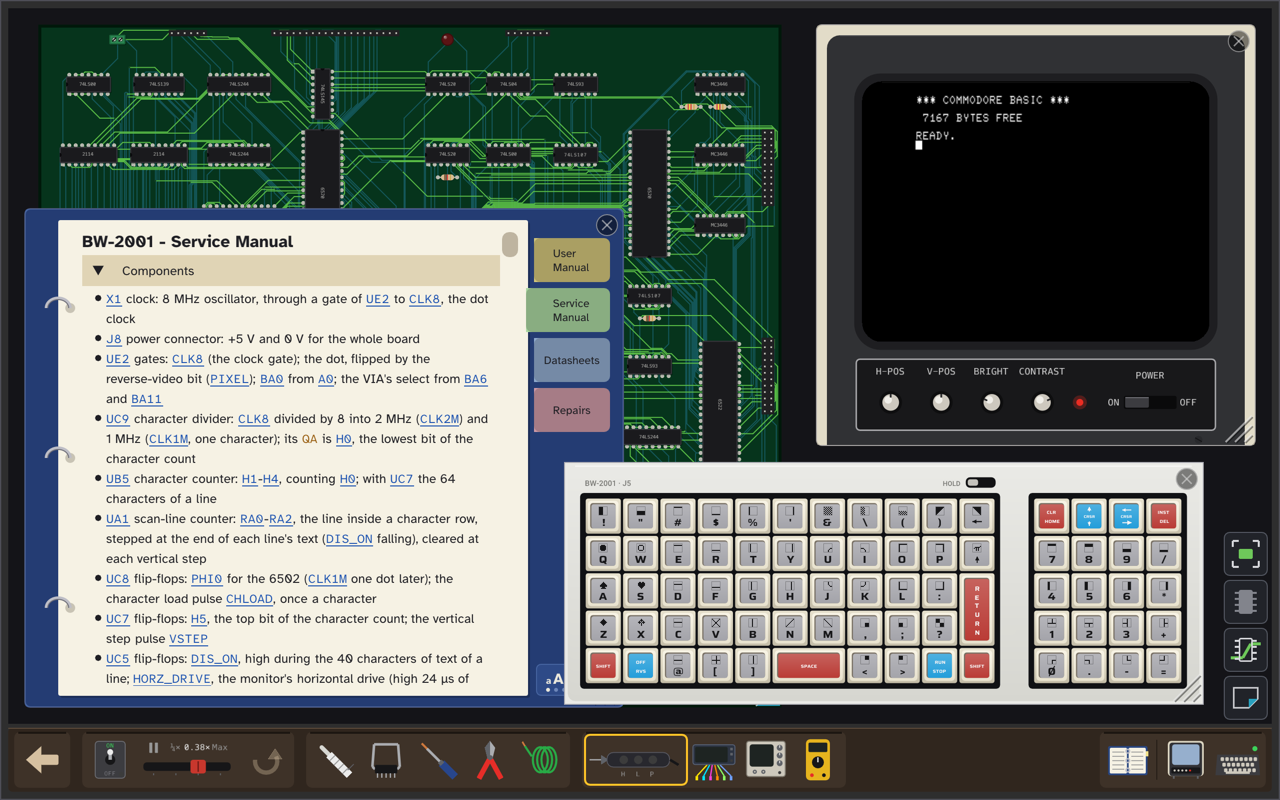
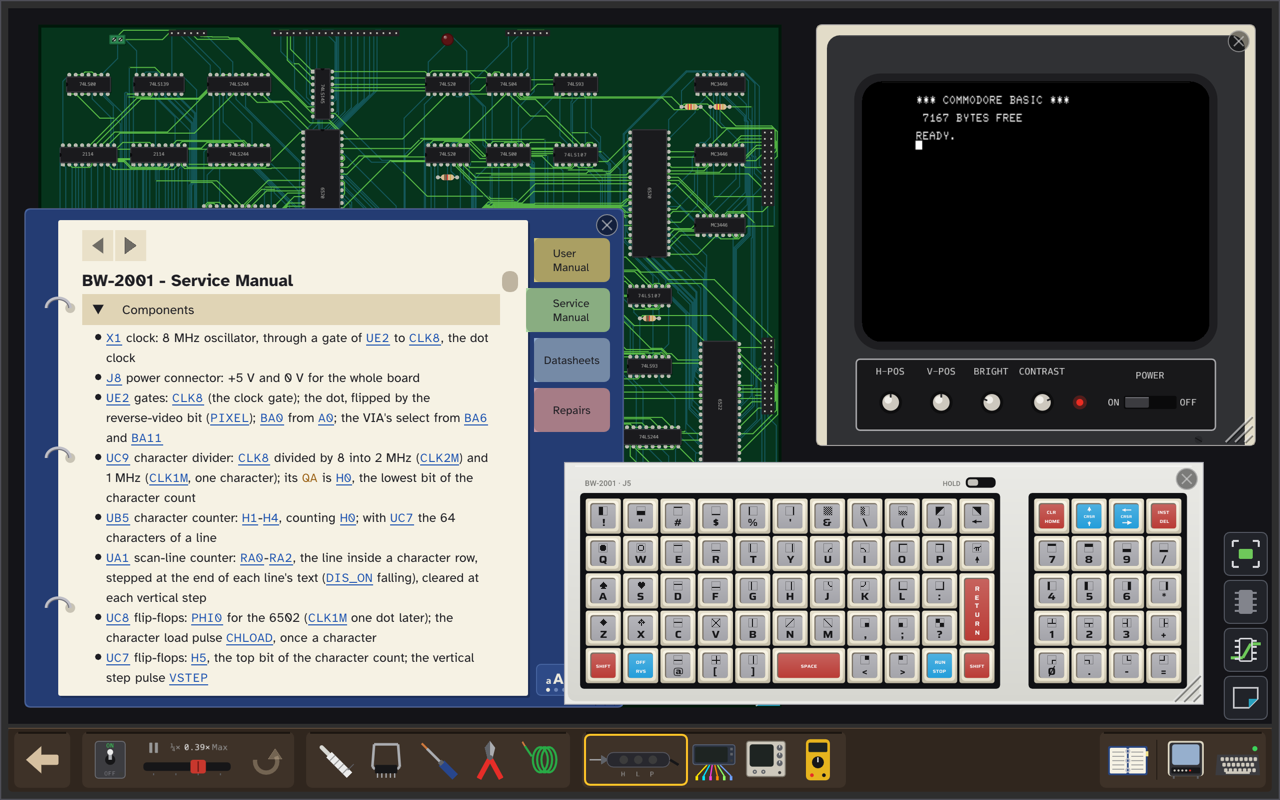
ui: the arrows above every page of the binder (P8j phase 9)
The user: with the arrows on Datasheets only, going back to a manual
left no way forward. Back and Forward now sit in a fixed strip above
every page (never scrolled away); All chips on a chip's page only.
Checks: the full release suite, the web build, screenshots (the Dice's
Service Manual → U3 → ◀), the README's binder pictures regenerated.

Changed region(s): [[0.0625, 0.2812, 0.4062, 0.875]]

diff --git a/src/ui/manual_window.cpp b/src/ui/manual_window.cpp
@@ -217,12 +217,17 @@ void ManualWindows::draw(bool& open, const Manuals& manuals, BoardView& board,
     if (shown.divider == Divider::Datasheets && shown.chip && scene) {
         id += " " + scene->board().components[*shown.chip].reference;
     }
+    // Back, Forward (and on a chip's page All chips) above every page, fixed: never scrolled
+    // away, the same place on every divider (P8j).
+    navigationKeys(board, shown.divider == Divider::Datasheets && shown.chip && scene);
+    const float keys = ImGui::GetCursorScreenPos().y - page.y;
+    ImGui::SetCursorScreenPos({page.x, page.y + keys});
     if (scrollOnce_) {  // Back: the page where it was left
         ImGui::SetNextWindowScroll({0, *scrollOnce_});
         scrollOnce_.reset();
     }
     // A drag on the page scrolls it (P8f) and no longer moves the binder: its cover does.
-    if (ImGui::BeginChild(id.c_str(), size, ImGuiChildFlags_None,
+    if (ImGui::BeginChild(id.c_str(), {size.x, size.y - keys}, ImGuiChildFlags_None,
                           ImGuiWindowFlags_NoBackground | ImGuiWindowFlags_NoMove)) {
         switch (divider) {
         case Divider::User:
@@ -456,8 +461,8 @@ void ManualWindows::visit(BoardView& board, std::optional<Binder::Visit> place) 
     scrollOnce_ = place->scroll;
 }
 
-// The chip pages' keys (P8j): Back and Forward, arrows as a browser's, each dimmed with nowhere
-// to go; on a chip's page the list, its sign left of its word. Each a control high.
+// The binder's keys above its page (P8j): Back and Forward, arrows as a browser's, each dimmed with
+// nowhere to go; on a chip's page the list, its sign left of its word. Each a control high.
 void ManualWindows::navigationKeys(BoardView& board, bool chip) {
     const float height = ControlHeight();
     const float r = height * 0.4f;  // the drawn sign's half size
@@ -518,13 +523,11 @@ void ManualWindows::datasheets(const Manuals& manuals, BoardView& board,
     const BoardScene* scene = board.scene();
     if (const auto chip = scene ? board.pointedComponent() : std::nullopt) {
         ImGui::PushID("chip");
-        navigationKeys(board, true);
         board.route(chip_.draw(*scene, *chip, manuals, design));
         ImGui::PopID();
         return;
     }
     ImGui::PushID("index");
-    navigationKeys(board, false);
     board.route(index(scene));
     ImGui::PopID();
 }

diff --git a/docs/p8j-datasheet-polish/DATASHEET_POLISH.md b/docs/p8j-datasheet-polish/DATASHEET_POLISH.md
@@ -35,7 +35,7 @@ The user, 2026-11-27, with the agent sparring for the expert (the user's goal: "
 - **"All datasheets" becomes a list icon**, not a word button; the same icon on the Datasheets pages. Possibly on the Datasheets tab itself (open, below).
 - **Never navigate by hover.** A hover lights; only a deliberate act (a click on a link, on the Board, in the list) changes a page, enters a history or changes what is kept.
 - **Back, as a browser's.** Orthogonal to keeping a chip at hand (below).
-- **Forward too, both as arrows** (the user, 2026-11-27, after using Back: "awkward to have a back but not forward… maybe just an arrow would be enough"): ◀ ▶ without words, as a browser's, each dimmed with nowhere to go (Forward stays in place, dimmed until a Back, so All chips never moves); a tooltip names each.
+- **Forward too, both as arrows** (the user, 2026-11-27, after using Back: "awkward to have a back but not forward… maybe just an arrow would be enough"): ◀ ▶ without words, as a browser's, each dimmed with nowhere to go (Forward stays in place, dimmed until a Back, so All chips never moves); a tooltip names each. Then (the user: "there are no arrows on non datasheet pages, so as soon as we go back there, we're lost"): the arrows sit above every page of the binder, fixed, never scrolled away.
 - **Back returns exactly where you were**, not to the top: **the scroll is kept per chip, not per tab.** A chip never visited opens at the top. Per chip, not per Part type (U4 and U5 are both 74LS161 and their role lines differ).
 - **The reading size (aA) is not a concern**: "people choose one size and never change". If a natural way of keeping the place survives a reflow, good; nothing more is done for it.
 - **Chip-level pages and Machine-level pages.** Datasheets and Contents show a chip, chosen per chip: their place, history and (Contents) view kept per chip. The User and Service Manuals, Repairs and Give up are one page each, as now.
@@ -77,11 +77,11 @@ Chosen without asking (the agent, to overturn freely):
 ### The Datasheets list
 
 1. **The list of the Machine's Parts**, as now: one line a Part type, its references after it; a reference hovered lights its chip, clicked selects it and centres the Board on it (the chip's page follows). **A Part's name is plain text**: no generic sheet.
-2. **Back and Forward** (◀ ▶) at the top of the list, each dimmed with nowhere to go.
+2. **Back and Forward** (◀ ▶) above every page of the binder (the list, a chip, the manuals, Repairs, Contents, Give up), fixed while the page scrolls, each dimmed with nowhere to go.
 
 ### A chip's page
 
-3. **Keys at the top**: **◀ ▶**, Back and Forward (each dimmed with nowhere to go) and **☰ All chips** (the list: the Board's selection cleared, as "All datasheets" did; a hover on a chip still shows its page).
+3. **Keys at the top**: **◀ ▶** and, on a chip's page only, **☰ All chips** (the list: the Board's selection cleared, as "All datasheets" did; a hover on a chip still shows its page).
 4. **The title is the chip**: `U5 · 74LS161 · synchronous 4-bit binary counter`, bold, a rule under it. `U5` is a link (hover lights the chip; a click centres the Board on it and selects it). **"Zoom to" is gone.**
 5. **The role sentence** from the Service Manual's Components bullet, its first letter a capital, its references, pins by name and Nets links as in the Service Manual: `Counter bits 16–19: counts when U4 carries; C19 drives D1`.
 6. **The pinout** (a DIP's body with its pins either side, as now) with, on each pin's line between its number and the body, a **symbol in one colour (violet)**:
@@ -136,7 +136,7 @@ Untouched: the kernel, the Parts, the instruments, Puzzles, the Launcher, the ot
 Settled by the user, 2026-11-27, taking the agent's recommendation on each ("yes, that sounds good"):
 
 1. **Keeping two chips at hand: level 1 in P8j** (each chip page keeps its place; Back). Levels 2 (a chip kept as a binder tab, created and closed explicitly; tabs are finite, `TabTops`; a kept tab stays live, only its chip frozen) and 3 (a page torn out to a window of its own) are chosen in a later row, after playing with Back.
-2. **Back** (and Forward, added after use) is a key at the top of a chip page. Its history spans the whole binder (a Service Manual step → U5 → Back returns to that step, where it was). Going back to a chip selects it without moving the Board. A mouse's back button does the same; no keyboard key (keys go to the Machine, P6o).
+2. **Back** (and Forward, added after use) is a key above every page. Its history spans the whole binder (a Service Manual step → U5 → Back returns to that step, where it was). Going back to a chip selects it without moving the Board. A mouse's back button does the same; no keyboard key (keys go to the Machine, P6o).
 3. **The list is a key beside Back, an icon with its word** (☰ All chips): readable without a tooltip a finger never sees; the Datasheets tab keeps one meaning.
 4. **A click on a pin is unchanged**: the instrument in hand works it (P8g), a double-click shows it; the crosshair shows it whatever is in hand (P8f, a finger's only "show"). The same for a pin's name in the text.
 5. **A section's marks do not stay after a click**; on a tablet, the finger's hold (P8f) shows them as a hover does.

diff --git a/docs/p8j-datasheet-polish/DATASHEET_POLISH_PLAN.md b/docs/p8j-datasheet-polish/DATASHEET_POLISH_PLAN.md
@@ -13,7 +13,8 @@ Spec: [DATASHEET_POLISH.md](DATASHEET_POLISH.md). Design: [DATASHEET_POLISH_DESI
 | 5 | The pinout's symbols, looks and group tint | `e285e1c` |
 | 6 | The Board: group marks, tooltips | `325cbac` |
 | 7 | Sheets, docs, finish | `b878bfa` |
-| 8 | Forward (after use) | (this commit) |
+| 8 | Forward (after use) | `20c11bf` |
+| 9 | The arrows above every page | (this commit) |
 
 ## Implementation notes
 
@@ -26,3 +27,4 @@ Spec: [DATASHEET_POLISH.md](DATASHEET_POLISH.md). Design: [DATASHEET_POLISH_DESI
 - 2026-11-27, phase 6: as designed; the Board's marks in a lighter violet than the page's (`IM_COL32(186, 140, 255)`: the same hue, legible on the dark Board), about the pin name's size, the arrow horizontal beside a tall chip's plates and vertical beside a wide one's. A chip's hover text is `U5 · 74LS161`. Checks: release `-R "board scene|view: hover|board"` (84), debug `-R "board scene|view: hover"`; screenshots: the Dice's U3 with `2A` hovered from the page (`2A`, `2B` in, `2Y` out on the Board), a finger held on `3Y` (`--touch --hold`: `3A`, `3B` in, `3Y` out, by the loupe).
 - 2026-11-27, phase 7: the sheets name their pins (74125, 74LS107, 74LS139, 74LS157, 74LS175, 74LS244, 74LS273, 74LS365, 74LS373, 74LS74, 6520, 6522, MC3446) and lose the netlist's syntax (2114, 2316B, 2332, 2513, 2716, BUTTON, C, R, POR); the ROMs' `contents=`/`offset=` facts moved to ADD_PART.md, whose datasheet row also gains the sheet rules and loses the claim that `A0`–`A15` does not expand. GLOSSARY: Datasheet updated, Pin Mark, Section, Goes nowhere. The README's binder-datasheet picture regenerated (`tools/readme_shots.py binder-datasheet`); its spec's wording still holds. Checks: release `-R manual`; the web build; the full release suite.
 - 2026-11-27, phase 8 (the user, after using Back): Forward beside Back, both arrows without words (tooltips), as a browser's. `Binder::forward()`; `back()` puts the place it leaves ahead, any other move (`record`) clears it; both return a `Visit`. Mouse X2 on the desktop. Checks: release `-R "binder|manual|bench options"`, the full release suite, the web build; screenshots on the Dice: U3 (◀ lit, ▶ dimmed), All chips then ◀ (U3 again, both lit), then ▶ (the list, ▶ dimmed).
+- 2026-11-27, phase 9 (the user: no arrows off Datasheets, "we're lost"): the keys moved out of the Datasheets page to a fixed strip above every page (the page's child shorter by it), All chips on a chip's page only. Checks: the full release suite, the web build; screenshots: the Dice's Service Manual (◀ ▶ above it), its `U3` link then ◀ (the Service Manual, ▶ lit); the README's four binder pictures regenerated (the manual, a chip, Code, Glyphs).
